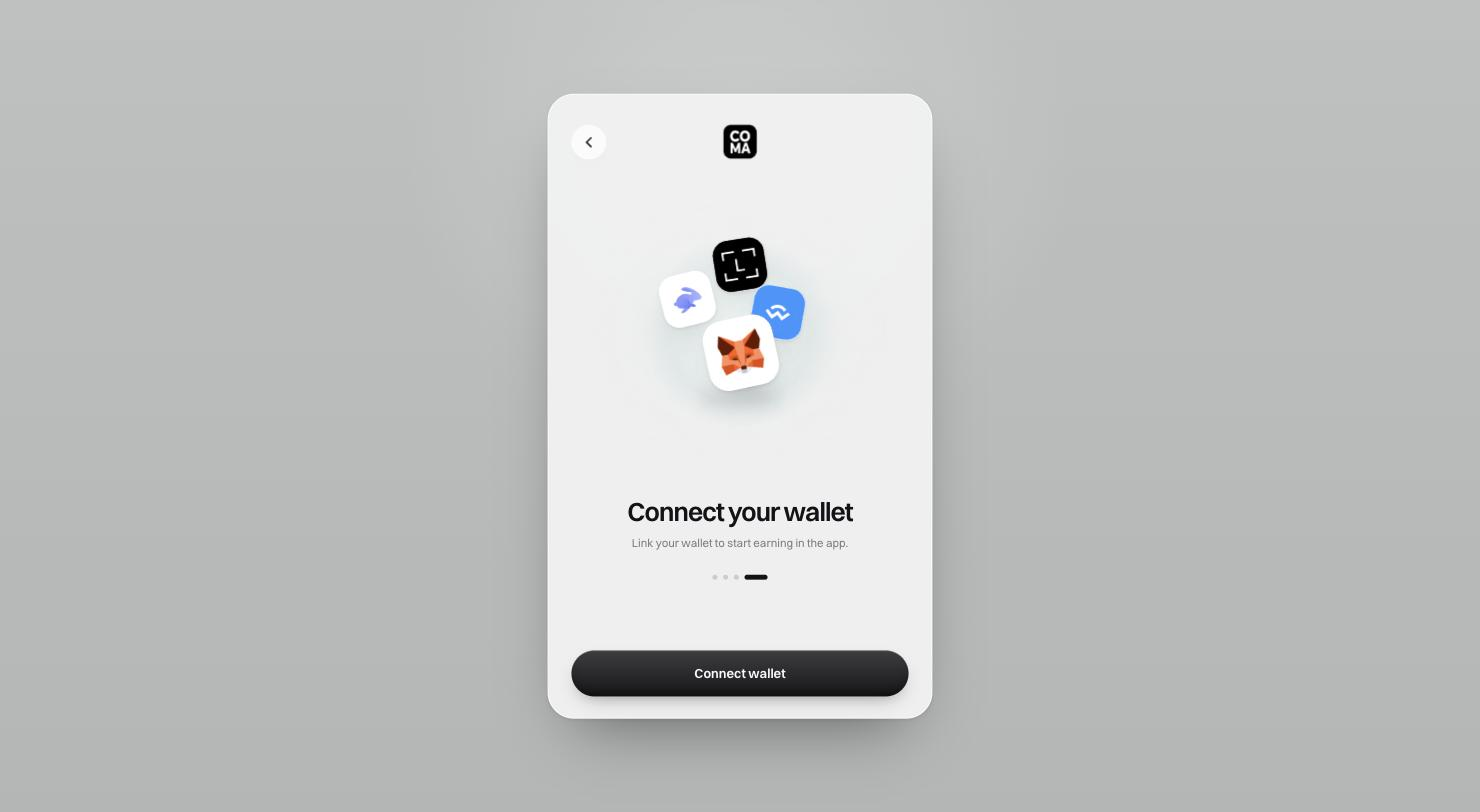
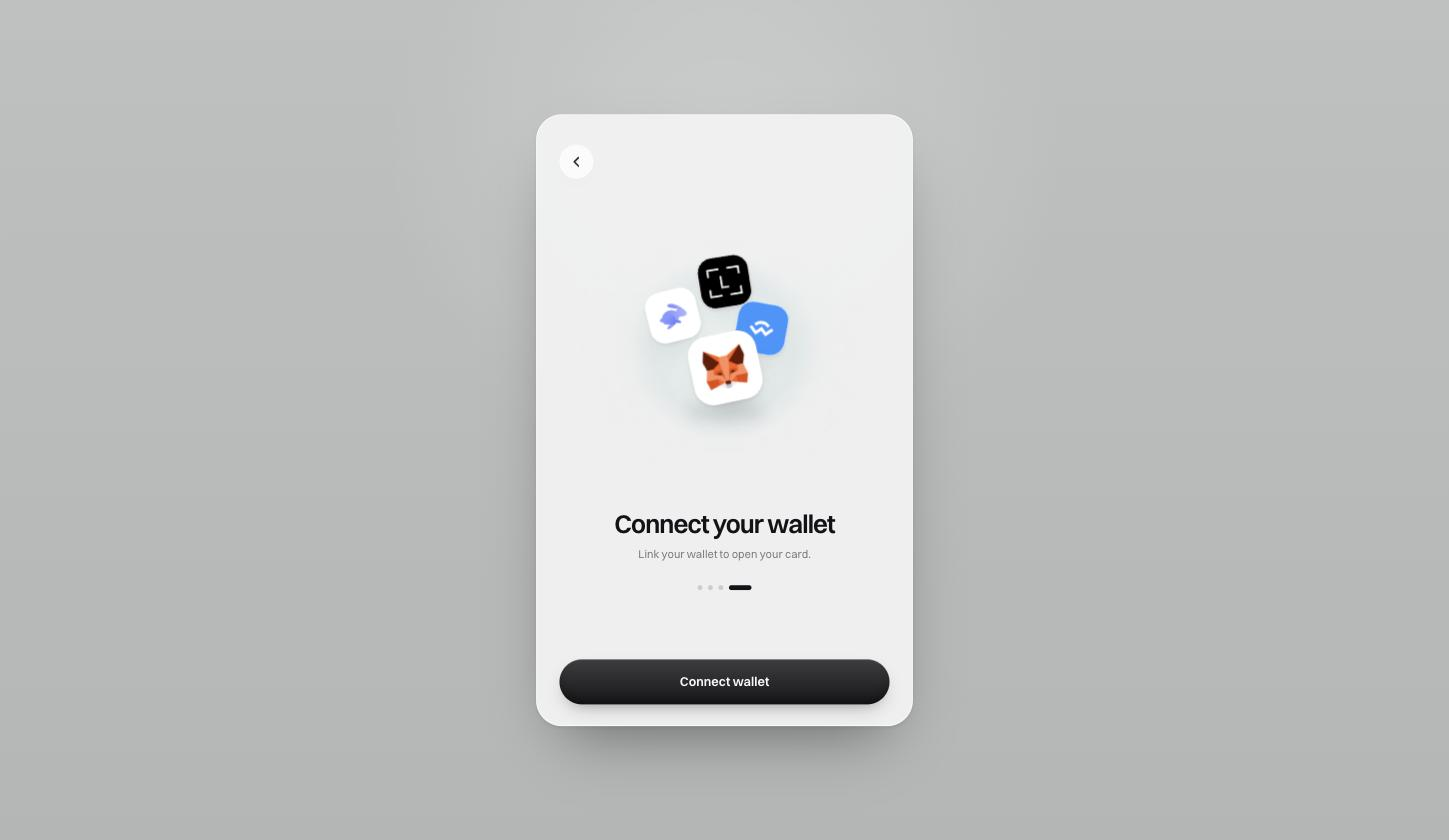
fix(onboarding): the connect screen stops promising a yield, and the dead consent sheet goes
"Link your wallet to start earning in the app" was the last screen before somebody decides
to connect, and this product pays no yield. It is "Link your wallet to open your card" now,
Axel's pick, which also closes the three screens before it: put collateral down, watch the
limit it buys grow, spend it, open it.

It survived the sweep that removed the ported product's name because a name was what that
sweep looked for and a promise is not a name. Searching for the claim rather than the brand
turned up one more: `ConsentSheet`, headed "Approve once, earn automatically" and going on
about what the vault "earns, without asking you every time". No screen rendered it. Its only
references were its own test and one Playwright helper, `depositViaDrawer`, which nothing
called either. Both are deleted.

The docs screenshot of that screen is retaken from the deployed app rather than edited.

Two things about capturing it are worth writing down, because both looked like bugs and
neither was. The wallet icons animate in from a stacked position, so a screenshot taken
before they settle catches them sitting on the heading; on a settled load they end at 618
and the heading starts at 633. And the browser window was 725 by 420 at the time, which is
shorter than any phone and makes every layout look broken.

Claude-Session: https://claude.ai/code/session_01EERjmkP7Sq7bbPmruwv9bB

diff --git a/apps/app/e2e/support/journey.ts b/apps/app/e2e/support/journey.ts
@@ -65,29 +65,3 @@ export async function expectDesktopHome(page: Page): Promise<void> {
   // Nothing from the product this was ported from should survive on this screen.
   await expect(page.getByText(/\b(bucket|APY|sentinel)\b/i)).toHaveCount(0);
 }
-
-/**
- * Desktop deposit: the hero "Deposit" opens a right drawer (role=dialog "Deposit"), not a route.
- * Pick the coin inside the drawer, fill the <input> (not the numpad), Deposit → the one-time consent
- * Dialog → success stays in the drawer until the final action. Caller must already be on desktop
- * /home.
- */
-export async function depositViaDrawer(
-  page: Page,
-  coin: "tUSDC" | "tUSDT" | "ETH",
-  amount: string,
-): Promise<void> {
-  await page.getByRole("button", { name: "Deposit" }).click();
-  const drawer = page.getByRole("dialog", { name: "Deposit" });
-  await expect(drawer).toBeVisible();
-  await drawer.getByRole("button", { name: new RegExp(`^${coin}`) }).click();
-  await expect(drawer.getByText(`Deposit ${coin}`)).toBeVisible();
-  await drawer.getByLabel("Amount").fill(amount);
-  await drawer.getByRole("button", { name: "Deposit" }).click();
-  const consent = page.getByRole("dialog", { name: "Approve automatic earning" });
-  await expect(consent).toBeVisible();
-  await consent.getByRole("button", { name: "Agree & sign" }).click();
-  await expect(drawer.getByText("Deposit Success")).toBeVisible();
-  await drawer.getByRole("button", { name: "Back to Home" }).click();
-  await expect(drawer).toBeHidden();
-}

diff --git a/apps/app/app/page.tsx b/apps/app/app/page.tsx
@@ -228,7 +228,11 @@ function ConnectScreen({
           </div>
           <div className={styles.tourCopy}>
             <h1>Connect your wallet</h1>
-            <p>Link your wallet to start earning in the app.</p>
+            {/* "open your card", not "start earning". The old line promised a yield this product
+                does not pay, on the last screen before somebody decides. It survived the sweep that
+                removed the ported product's name because the name was what the sweep looked for and
+                the promise is not a name. */}
+            <p>Link your wallet to open your card.</p>
             <Stepper current={3} total={TOUR.length + 1} />
           </div>
         </section>
